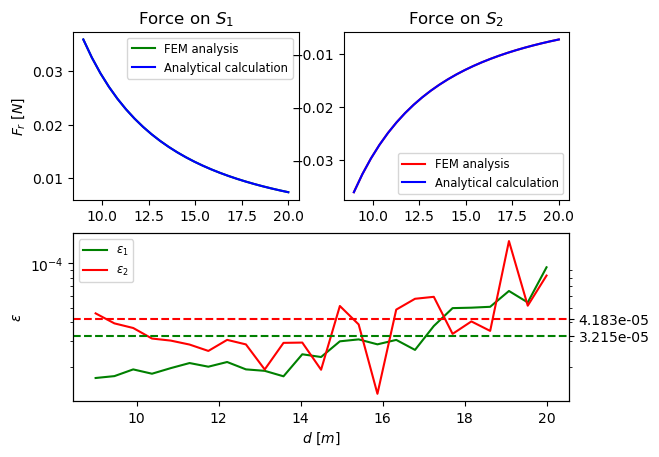
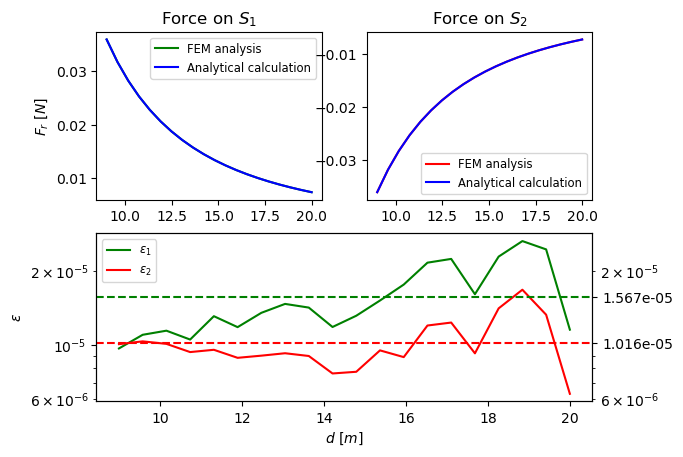
[Just finished the Coulomb iterations after the sudden interruption.]

diff --git a/spheres_2D/coulomb_electrostatic.py b/spheres_2D/coulomb_electrostatic.py
@@ -57,10 +57,43 @@ d = np.linspace(d_i, d_f, n_steps)
 # Results array
 F_fem = np.zeros((n_steps, 2))  # first column with force on sphere 1, second with force on sphere 2
 F_ana = np.zeros((n_steps))  # analytical force
-epsilon = np.zeros((n_steps, 2))  # precision
+epsilon = np.zeros((n_steps, 2))  # precision FIXME
+
+''' === ONE-TIME PATCH === '''
+# Please !!!REMOVE!!! after use
+# I just put this here because the program interrupted but got some results
+F_fem[0] = [0.035983762645421524, -0.03598374819378855]
+F_fem[1] = [0.03176548145774502, -0.031765502377652785]
+F_fem[2] = [0.028247720793874054, -0.028247758428189024]
+F_fem[3] = [0.02528355235657581, -0.02528358187793577]
+F_fem[4] = [0.022762522343591395, -0.02276260315015435]
+F_fem[5] = [0.020600652838511698, -0.02060071386385236]
+F_fem[6] = [0.01873270224838132, -0.018732786224501585]
+F_fem[7] = [0.017107763828356548, -0.01710785722494169]
+F_fem[8] = [0.015685461352442462, -0.015685542843102467]
+F_fem[9] = [0.014433455791315428, -0.014433516268432662]
+F_fem[10] = [0.01332553458229729, -0.013325606401869843]
+
+for i in range(11):
+    F_ana[i] = -8.9875517862e9 * ((4 / 3) * np.pi)**2 * R_1**3 * rho_q_1 * R_2**3 * rho_q_2 / d[i]**2
+    epsilon[i, 1] = np.abs((F_ana[i] + F_fem[i, 1]) / F_ana[i])
+
+epsilon[0, 0] = 9.659928603942185e-06
+epsilon[1, 0] = 1.098638112796123e-05
+epsilon[2, 0] = 1.1419711678655434e-05
+epsilon[3, 0] = 1.0504477084643726e-05
+epsilon[4, 0] = 1.3089070665194595e-05
+epsilon[5, 0] = 1.1806963901639258e-05
+epsilon[6, 0] = 1.350984466148363e-05
+epsilon[7, 0] = 1.4694103002709574e-05
+epsilon[8, 0] = 1.419374350463233e-05
+epsilon[9, 0] = 1.182330370685907e-05
+epsilon[10, 0] = 1.31453138664227e-05
+    
+''' === END OF ONE-TIME PATCH === '''
 
 # Starting the calculation iterations
-for i in range(n_steps):
+for i in range(11, n_steps):
     
     # Generation of a two-spheres problem
     system = FO2S('spheres_2D', R_1=R_1, rho_1=rho_1, R_2=R_2, rho_2=rho_2,
